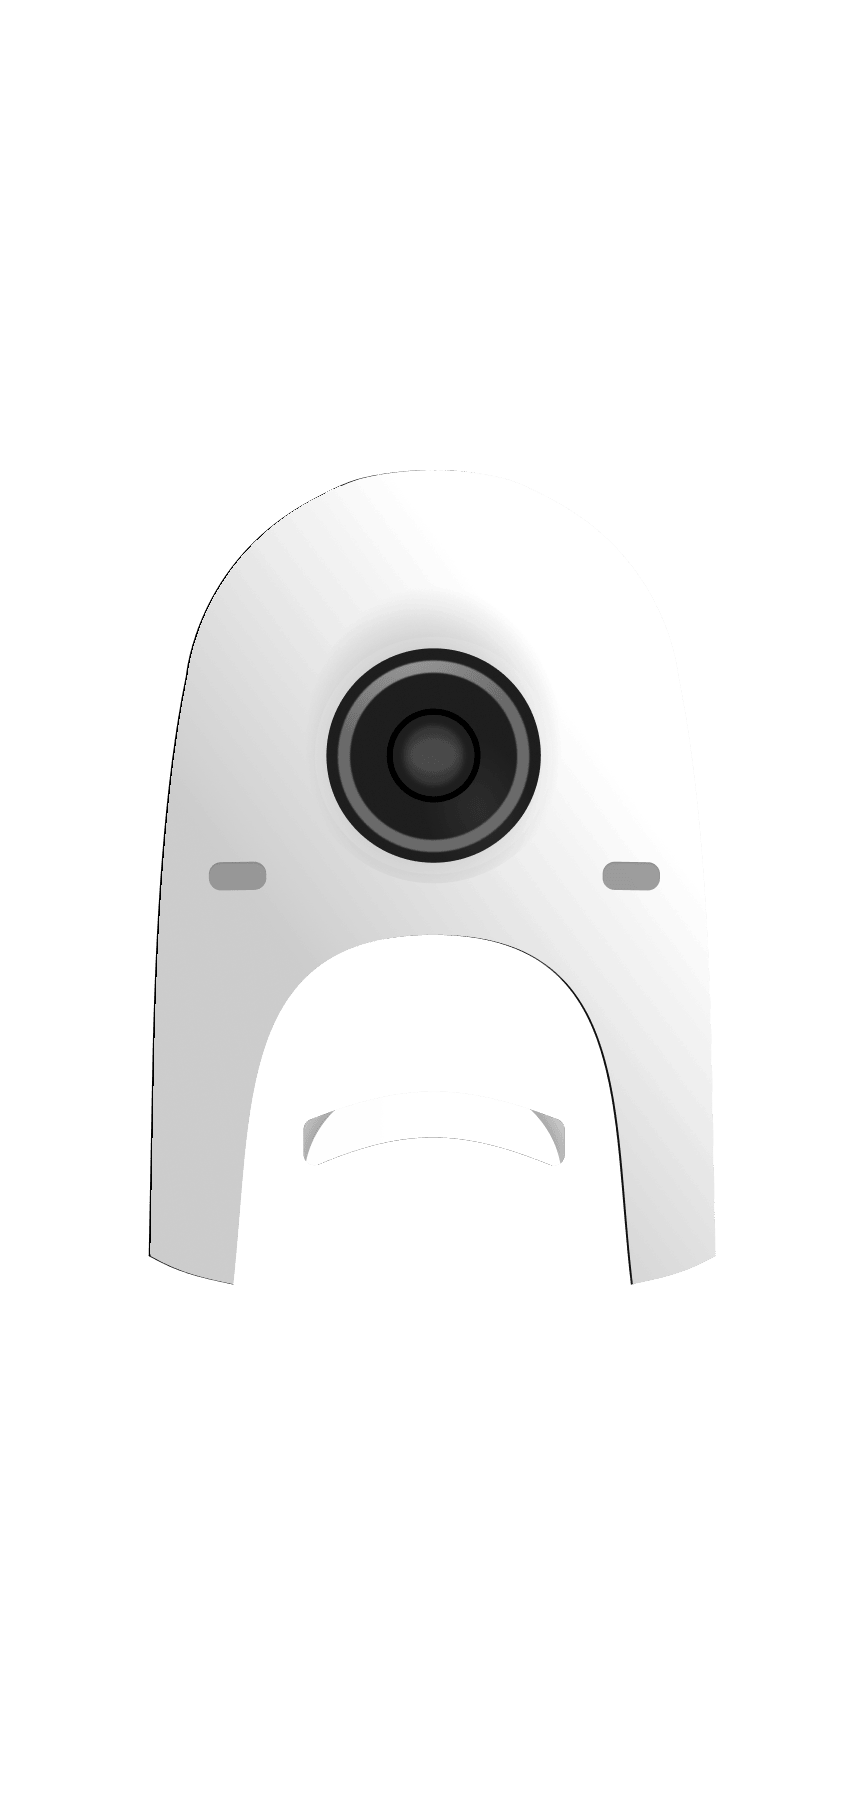
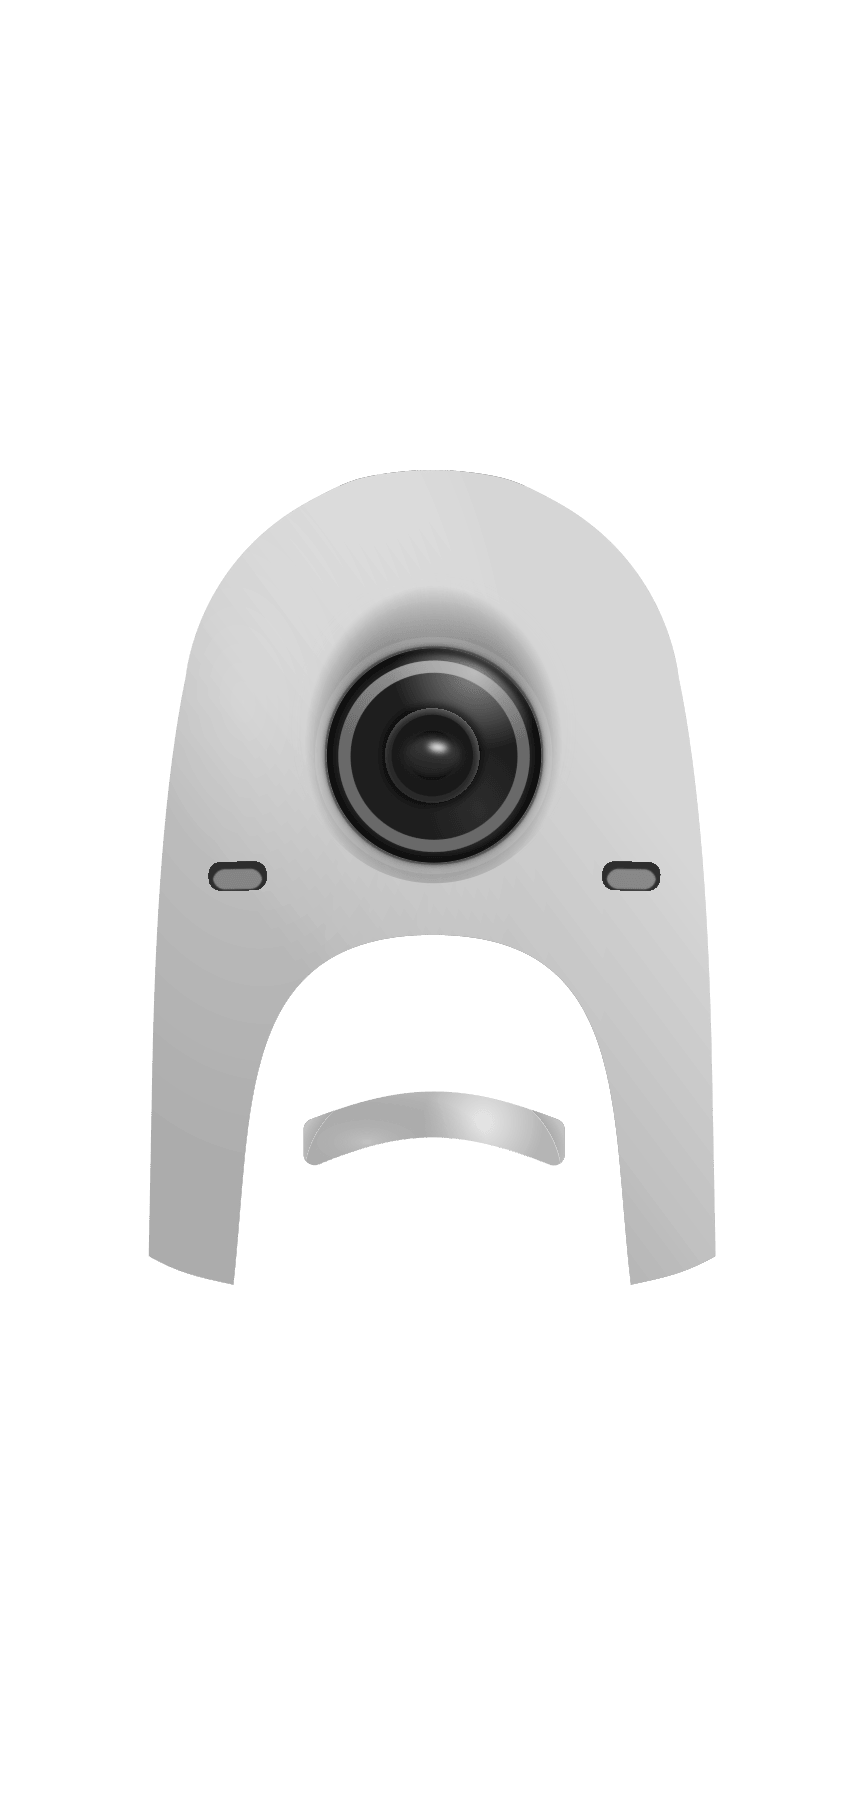
fix(app): distinguish scooter paint finishes (librescoot-jluu)

diff --git a/tool/build_scooter_artwork.py b/tool/build_scooter_artwork.py
@@ -53,6 +53,20 @@ def render_svg_elements(
         return rgba(png)
 
 
+def front_master_gloss(source: Path) -> np.ndarray:
+    tree = ET.parse(source / "front_master.svg")
+    root = tree.getroot()
+    for parent in root.iter():
+        for child in list(parent):
+            if "url(#pattern" in child.get("fill", ""):
+                parent.remove(child)
+    for element in root.iter():
+        if element.get("fill", "").upper() == "#0F0F0F":
+            element.set("fill", "white")
+    elements = [child for child in root if child.tag.rsplit("}", 1)[-1] != "defs"]
+    return pad_front_master(render_svg_elements(tree, elements, FRONT_MASTER_SIZE))
+
+
 def front_master_masks(source: Path) -> tuple[np.ndarray, np.ndarray]:
     tree = ET.parse(source / "front_master.svg")
     children = list(tree.getroot())
@@ -172,10 +186,14 @@ def shadow_layer(source: Path, view: str, destination: Path) -> np.ndarray:
 
 
 def tone_layer(source: Path, view: str, finish: str, alpha: np.ndarray) -> np.ndarray:
-    use_master = view == "front" and finish == "matte" and (source / "front_master@2x.png").exists()
-    if use_master:
+    use_master_matte = view == "front" and finish == "matte" and (source / "front_master@2x.png").exists()
+    use_master_gloss = view == "front" and finish == "gloss" and (source / "front_master.svg").exists()
+    if use_master_matte:
         image = pad_front_master(rgba(source / "front_master@2x.png"))
         color = "#2F2F2F"
+    elif use_master_gloss:
+        image = front_master_gloss(source)
+        color = "#F9F9F9"
     else:
         source_id = 3 if finish == "matte" else 1
         image = rgba(source / f"{view}_{source_id}.png")
@@ -184,8 +202,8 @@ def tone_layer(source: Path, view: str, finish: str, alpha: np.ndarray) -> np.nd
     reference_luminance = np.dot(rgb, [0.2126, 0.7152, 0.0722])
     luminance = np.dot(image[:, :, :3], [0.2126, 0.7152, 0.0722])
     tone = np.clip(luminance / reference_luminance, 0, 1)
-    if use_master:
-        tone = 0.5 + 0.5 * tone
+    if use_master_matte:
+        tone = 0.75 + 0.25 * tone
 
     output = np.empty_like(image, dtype=np.uint8)
     output[:, :, :3] = np.rint(tone[:, :, None] * 255).astype(np.uint8)
